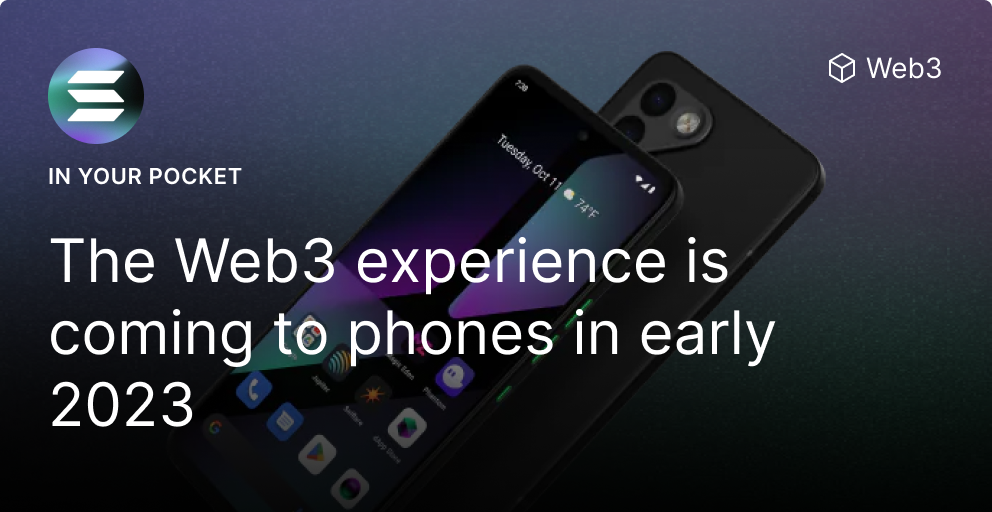
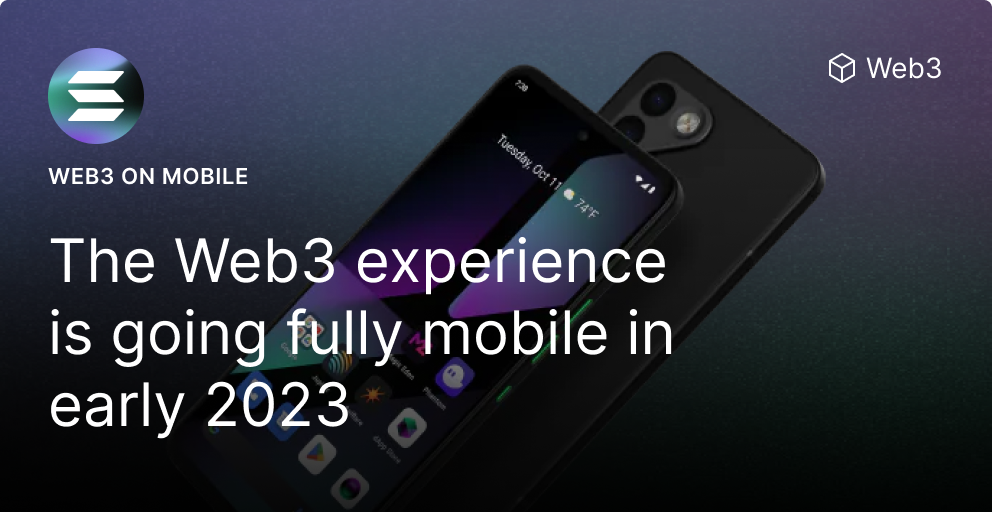
Update mainnet-beta.json and about.json (#1196)

diff --git a/hub/components/DiscoverPage/Sidebar/Announcements/index.tsx b/hub/components/DiscoverPage/Sidebar/Announcements/index.tsx
@@ -71,31 +71,39 @@ export function Announcements(props: Props) {
                 />
               )),
             ({ feedItems }) =>
-              feedItems.map((item, i) => (
-                <div
-                  className={cx(
-                    'gap-x-3',
-                    'grid-cols-[22px,1fr]',
-                    'grid',
-                    'items-center',
-                    'px-2',
-                  )}
-                  key={item.id}
-                >
-                  <div
-                    className={cx(
-                      'font-medium',
-                      'text-center',
-                      'text-neutral-900',
-                      'text-xs',
-                      'w-full',
-                    )}
-                  >
-                    {(i + 1).toFixed(0).padStart(2, '0')}
-                  </div>
-                  <Post post={item} />
-                </div>
-              )),
+              CONFIG.map(({ postId }, i) => {
+                const post = feedItems.find((item) => item.id === postId);
+
+                if (post) {
+                  return (
+                    <div
+                      className={cx(
+                        'gap-x-3',
+                        'grid-cols-[22px,1fr]',
+                        'grid',
+                        'items-center',
+                        'px-2',
+                      )}
+                      key={post.id}
+                    >
+                      <div
+                        className={cx(
+                          'font-medium',
+                          'text-center',
+                          'text-neutral-900',
+                          'text-xs',
+                          'w-full',
+                        )}
+                      >
+                        {(i + 1).toFixed(0).padStart(2, '0')}
+                      </div>
+                      <Post post={post} />
+                    </div>
+                  );
+                }
+
+                return null;
+              }),
           ),
         )}
       </div>

diff --git a/hub/components/DiscoverPage/Noteworthy/index.tsx b/hub/components/DiscoverPage/Noteworthy/index.tsx
@@ -44,27 +44,28 @@ export const ITEMS = [
     category: RealmCategory.Web3,
     content: (
       <div>
-        The Solana Mobile Stack and accompanying mobile Phone provides Web3
-        natives native crypto experience on their phone. This new frontier
-        features several opportunities including:
+        Solana Mobiles’s inaugural flagship Saga phone offers a powerful mobile
+        device enabled with native and seamless Web3 experiences. The Solana
+        Mobile Stack provides the tools for developers to build truly mobile
+        native dApps
       </div>
     ),
     publicKey: new PublicKey('ALzXvpmcmqmpNcFTbPzZ8ykSxHGqta85gTANfi8YPkPW'),
     stats: [
       {
         top: 'Seed Vault',
-        bottom: 'Wallet Hardware',
+        bottom: 'Key Custody on Saga',
       },
       {
-        top: 'Low Fees',
-        bottom: 'dApp Transactions',
+        top: 'dApp Store',
+        bottom: 'Fee Free Txns',
       },
       {
-        top: 'OSOM',
-        bottom: 'Premium Hardware',
+        top: 'OSOM Design',
+        bottom: 'Flagship Android',
       },
     ],
-    title: 'Solana Mobile / SMS',
+    title: 'Solana Mobile / Solana Mobile Stack',
     urlId: 'Solana%20Mobile',
   },
   {
